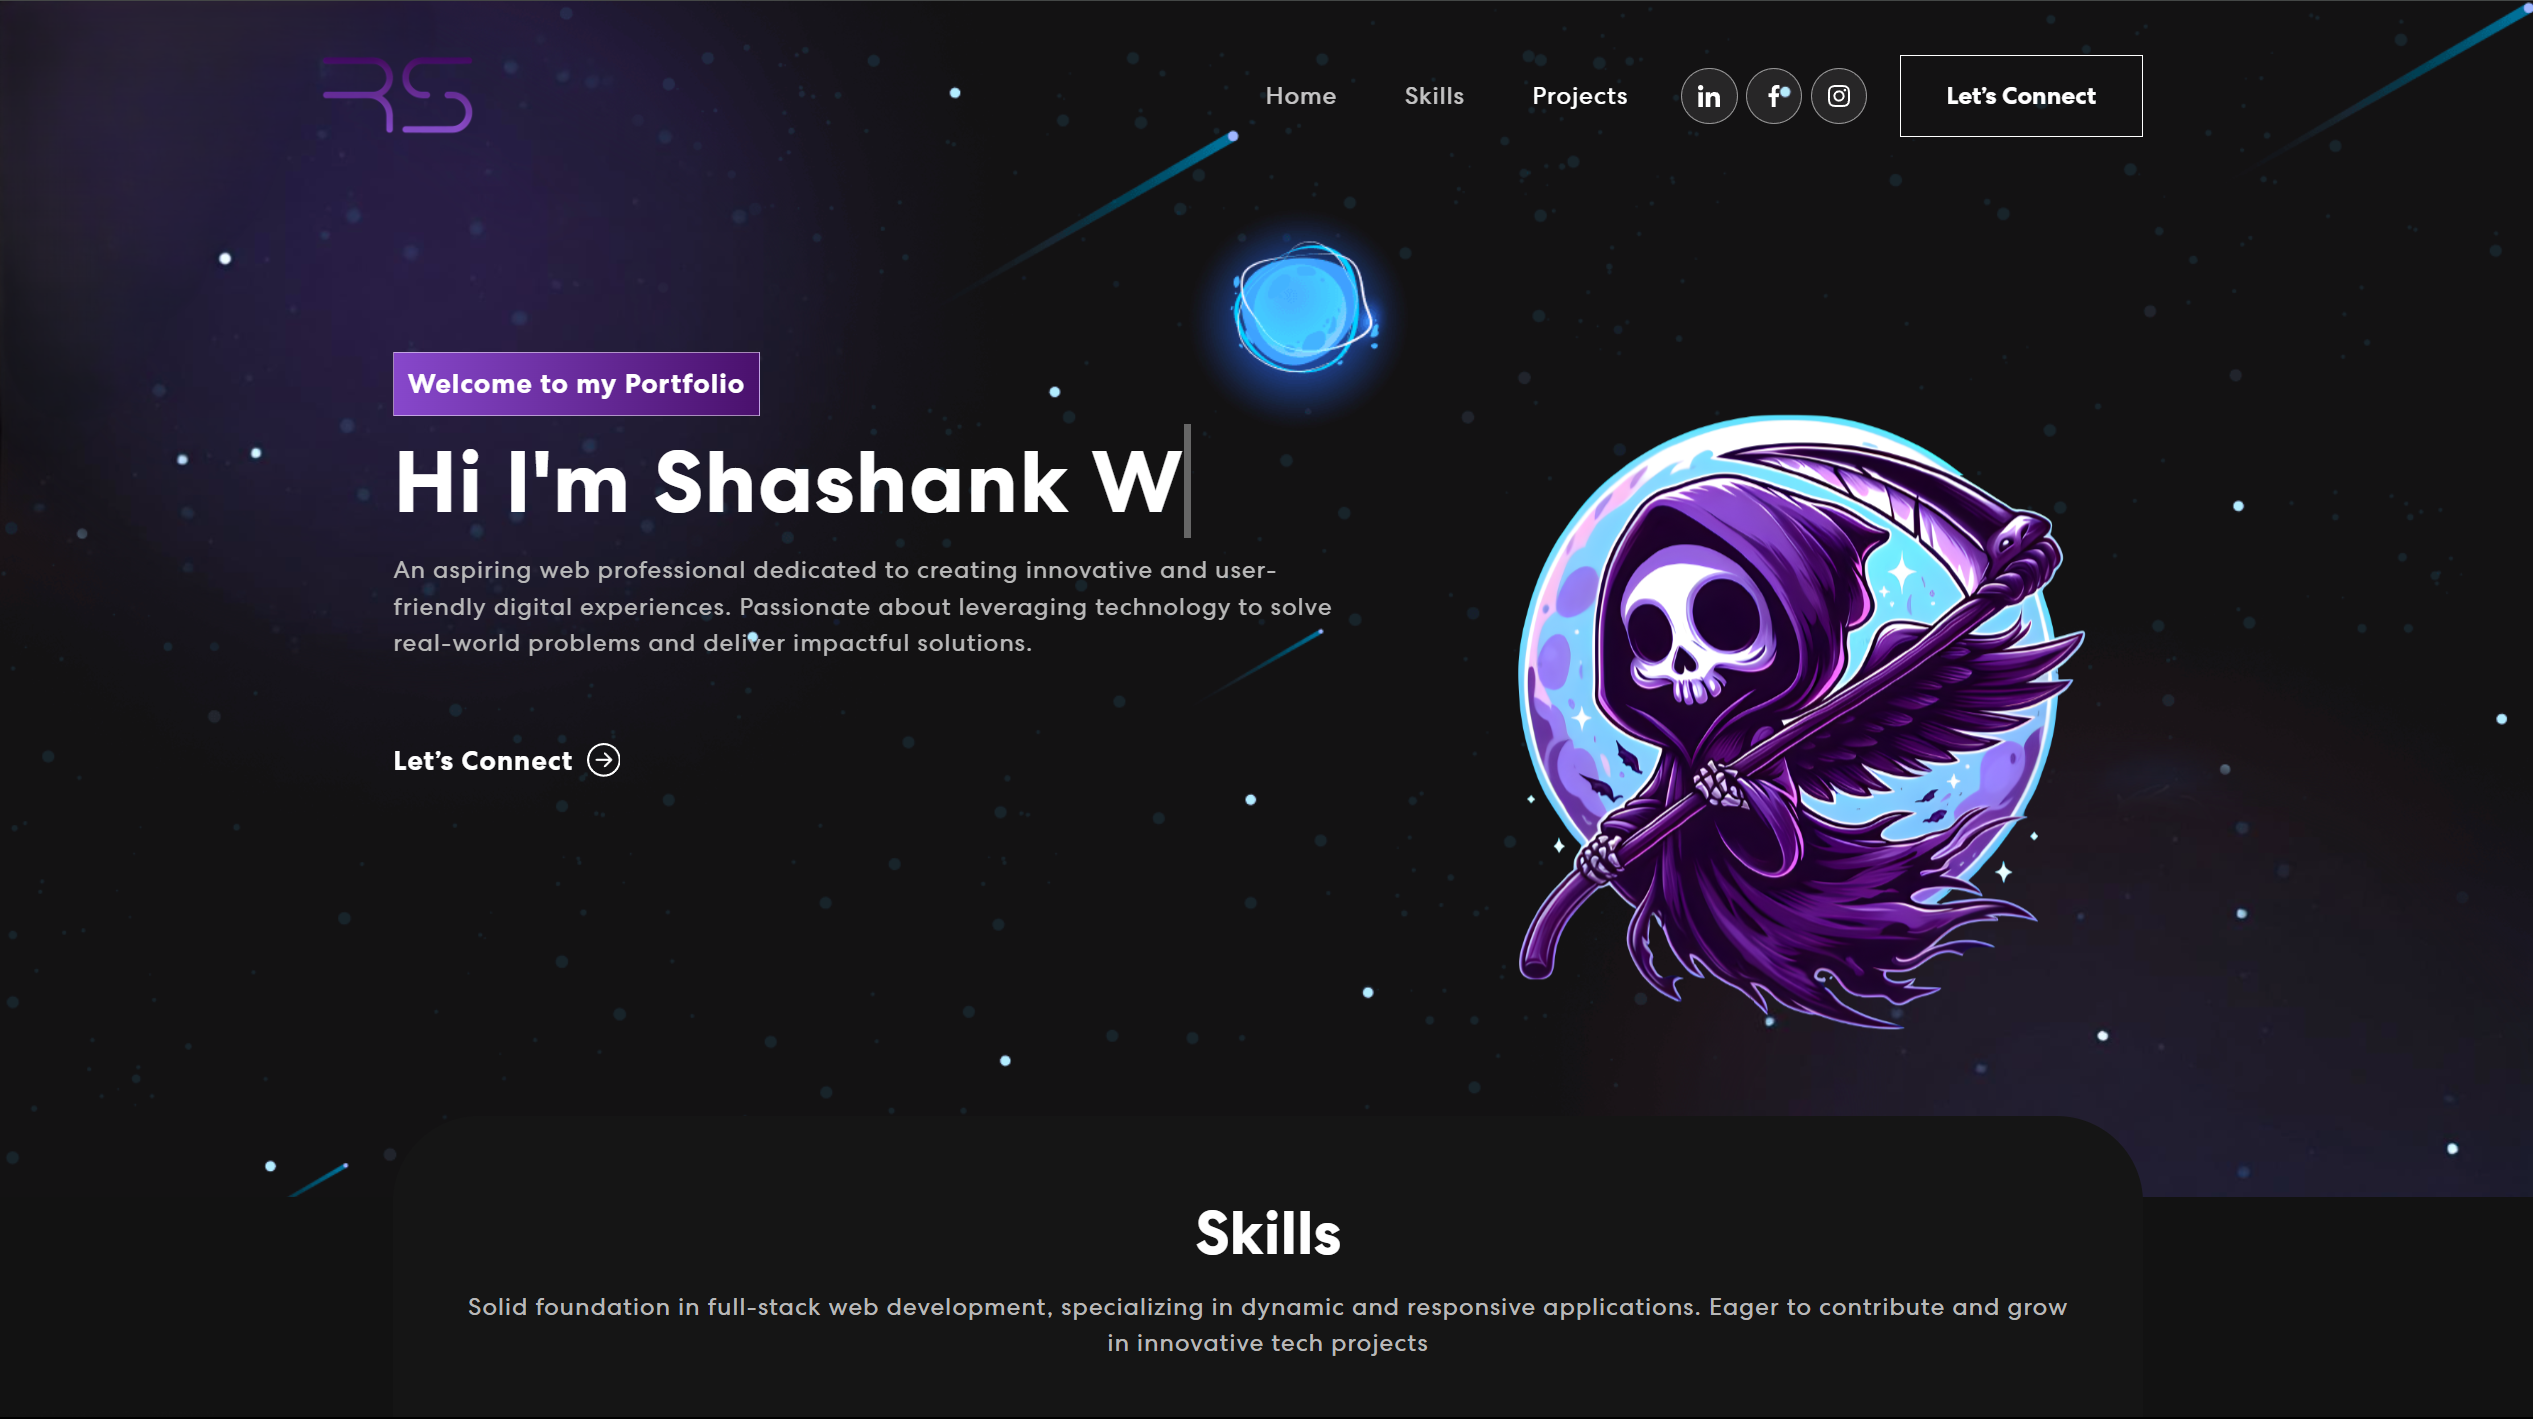
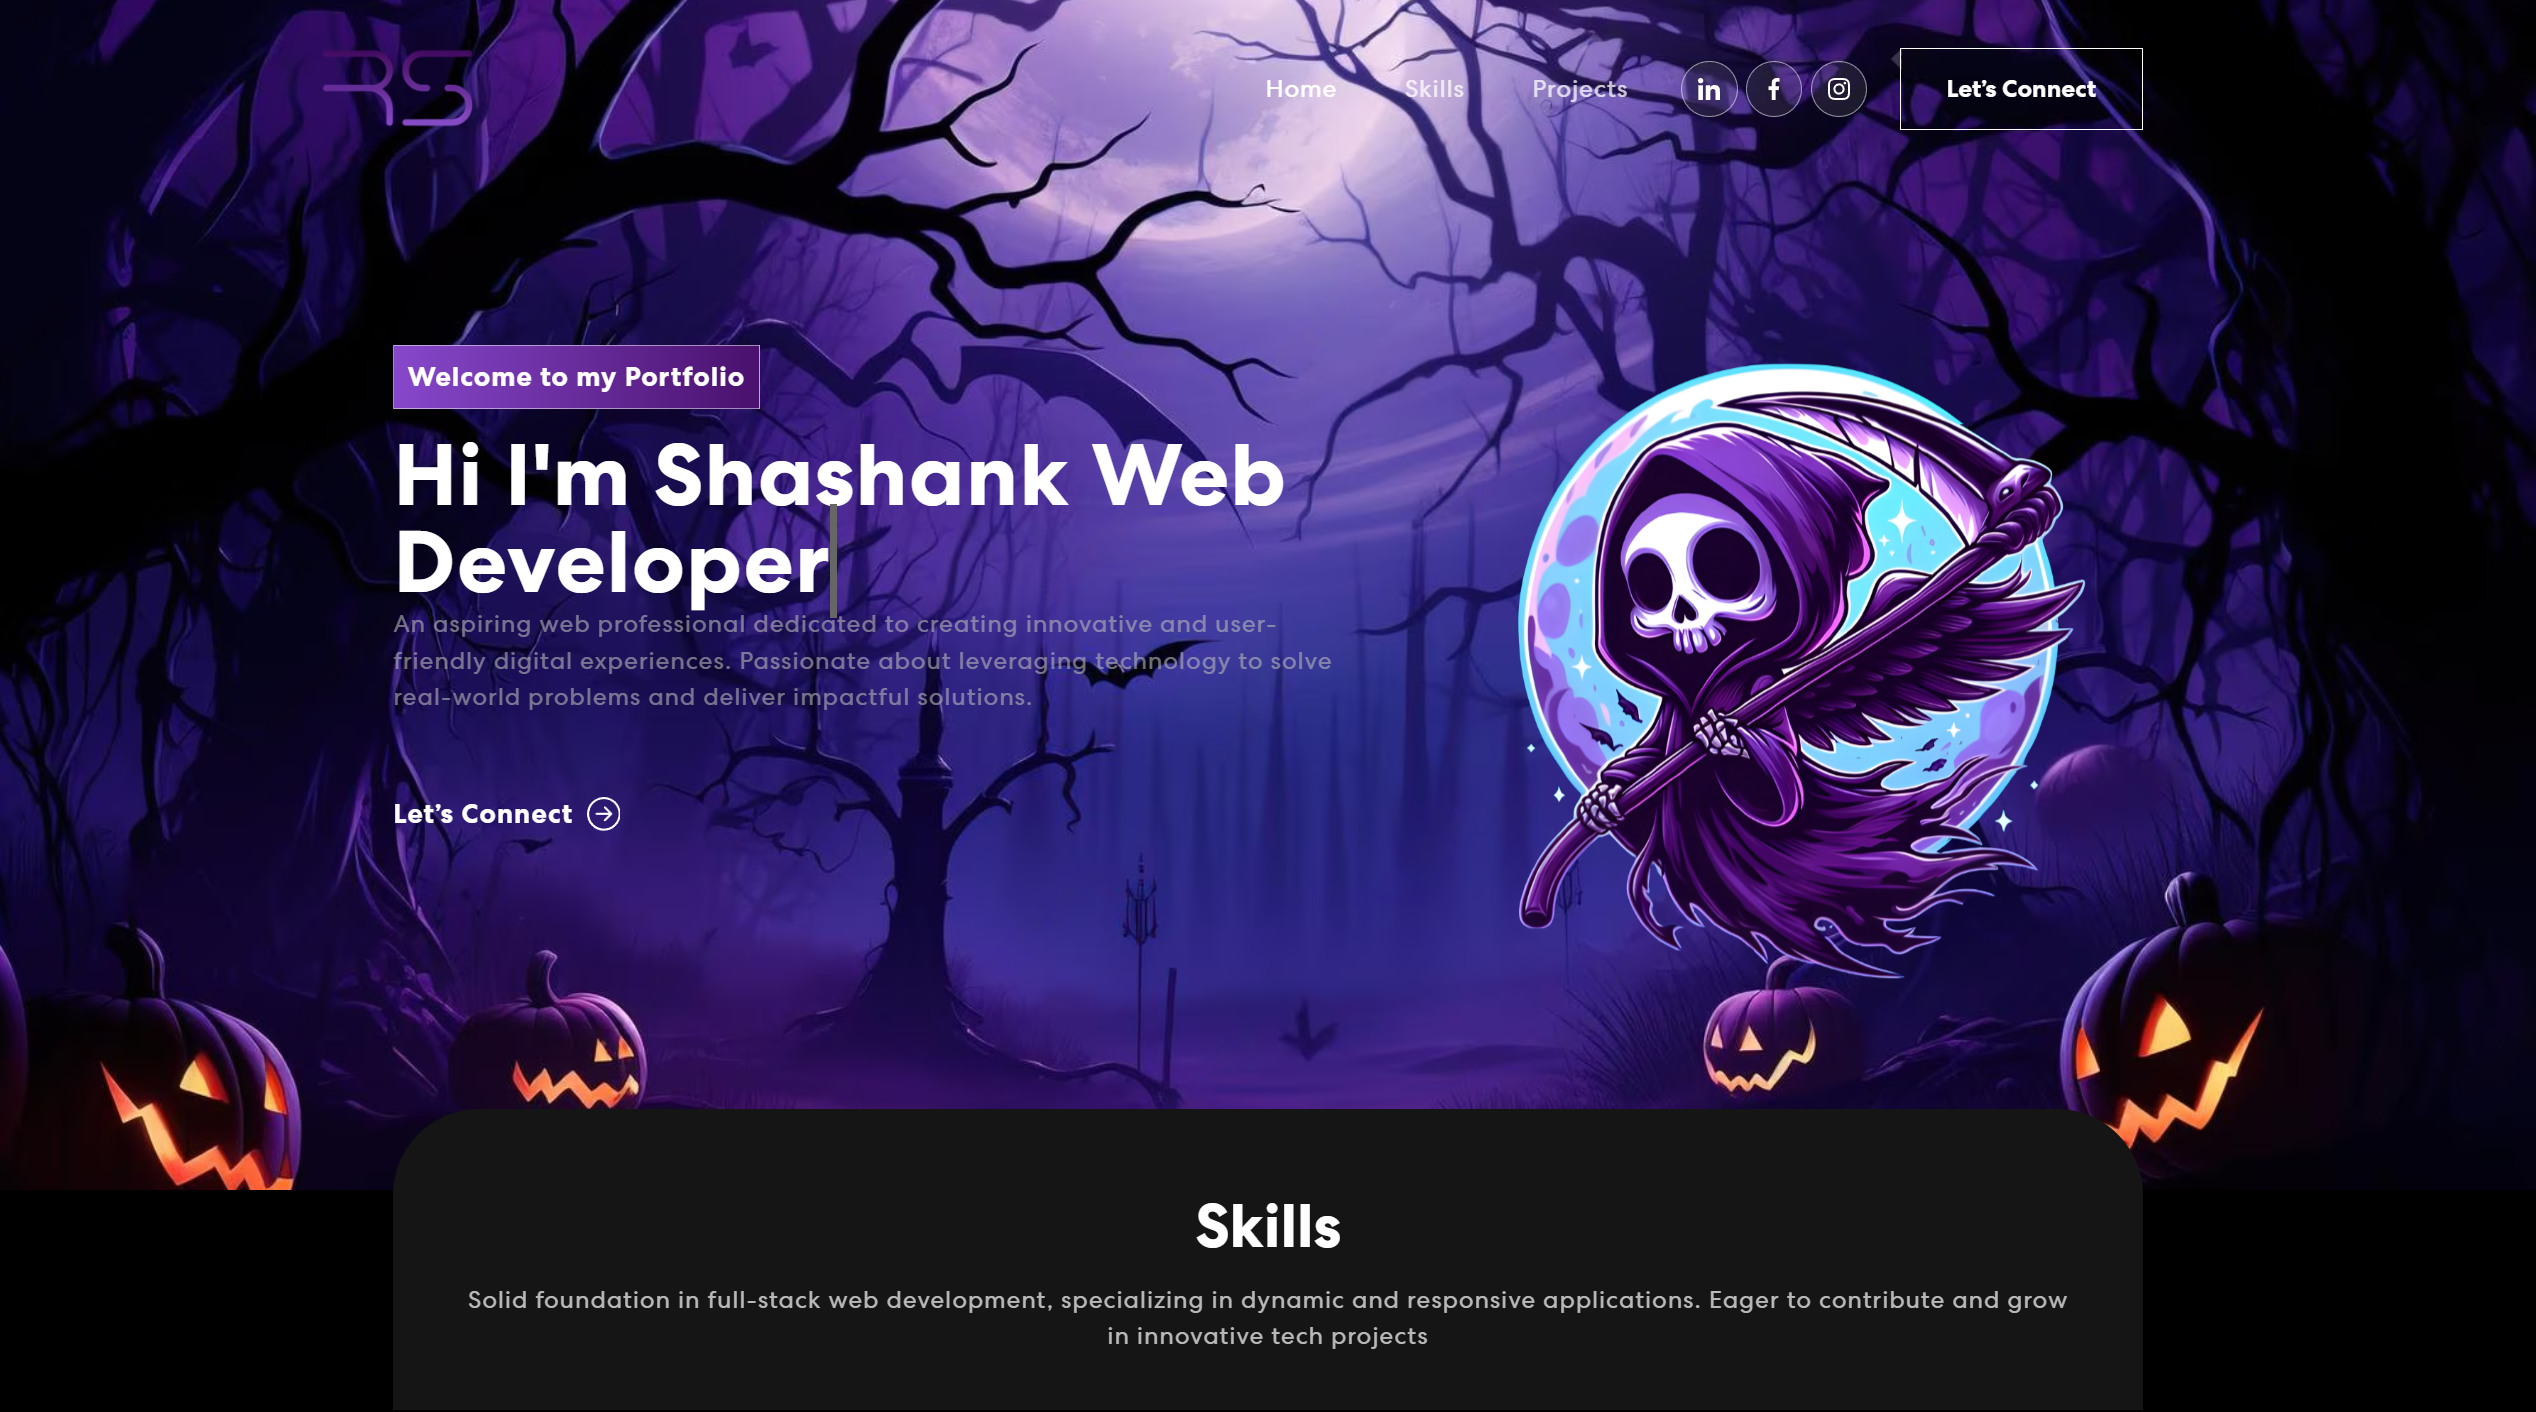
Asset and Update

diff --git a/src/components/Banner.js b/src/components/Banner.js
@@ -56,7 +56,7 @@ export const Banner = () => {
               {({ isVisible }) =>
               <div className={isVisible ? "animate__animated animate__fadeIn" : ""}>
                 <span className="tagline" >Welcome to my Portfolio</span>
-                <h1>{`Hi I'm Shashank  `} <span className="txt-rotate" dataPeriod="1000" data-rotate='[ "Web Developer", "Web Designer" ]'><span className="wrap">{text}</span></span></h1>
+                <h1>{`Hi I'm Shashank `} <span className="txt-rotate" dataPeriod="1000" data-rotate='[ "Web Developer", "Web Designer" ]'><span className="wrap">{text}</span></span></h1>
                 <p>An aspiring web professional dedicated to creating innovative and user-friendly digital experiences. Passionate about leveraging technology to solve real-world problems and deliver impactful solutions.</p>
                   <a href="#connect" style={{ textDecoration: 'none' }}>
                   <button onClick={() => console.log('connect')}>Let’s Connect <ArrowRightCircle size={25} /></button>

diff --git a/src/App.css b/src/App.css
@@ -270,11 +270,11 @@ nav.navbar .navbar-toggler[aria-expanded="true"] .navbar-toggler-icon {
   font-weight: 700;
   letter-spacing: 0.8px;
   line-height: 1;
-  margin-bottom: 20px;
+  margin-bottom: 0px;
   display: block;
 }
 .banner p {
-  color: #B8B8B8;
+  color: #b8b8b898;
   font-size: 18px;
   letter-spacing: 0.8px;
   line-height: 1.5em;
@@ -328,7 +328,6 @@ nav.navbar .navbar-toggler[aria-expanded="true"] .navbar-toggler-icon {
   text-align: center;
   padding: 60px 50px;
   margin-top: -60px;
-  
 }
 .skill h2 {
 	font-size: 45px;
